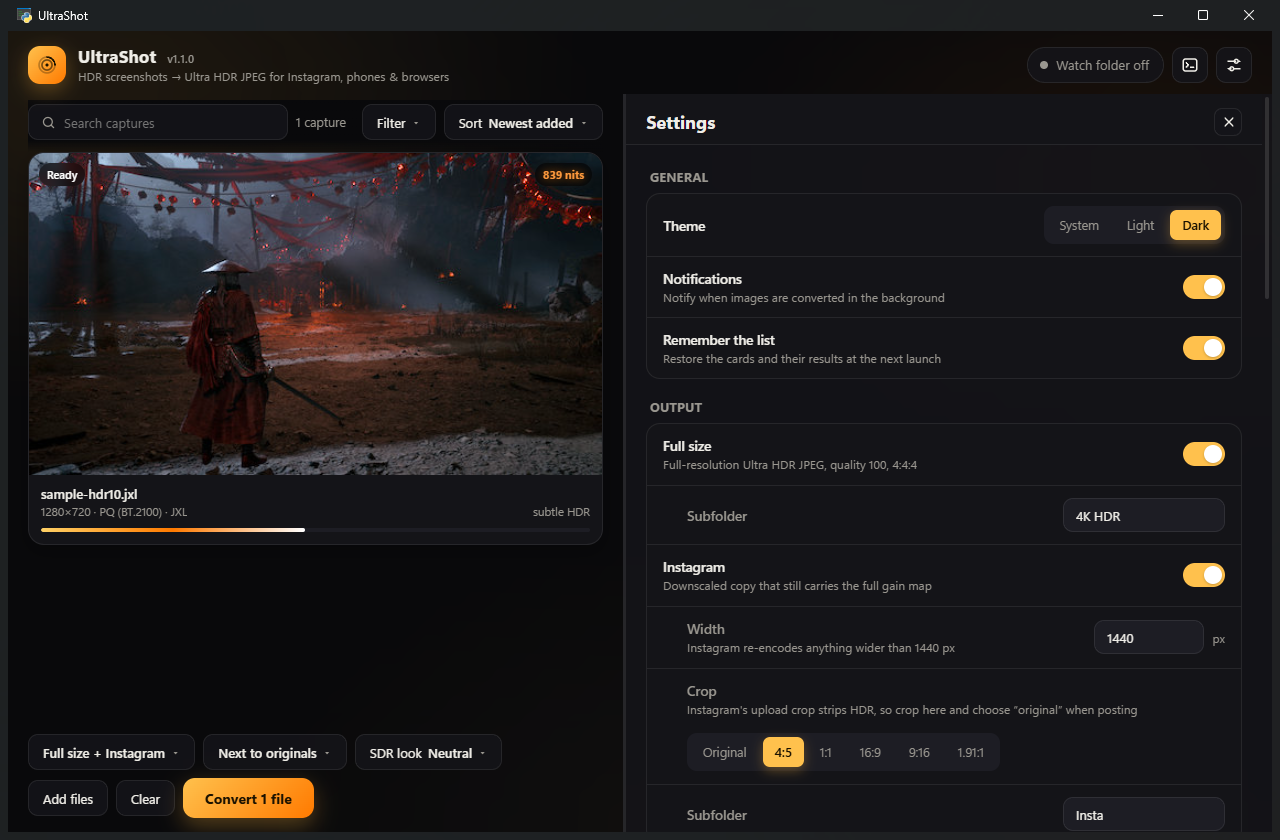
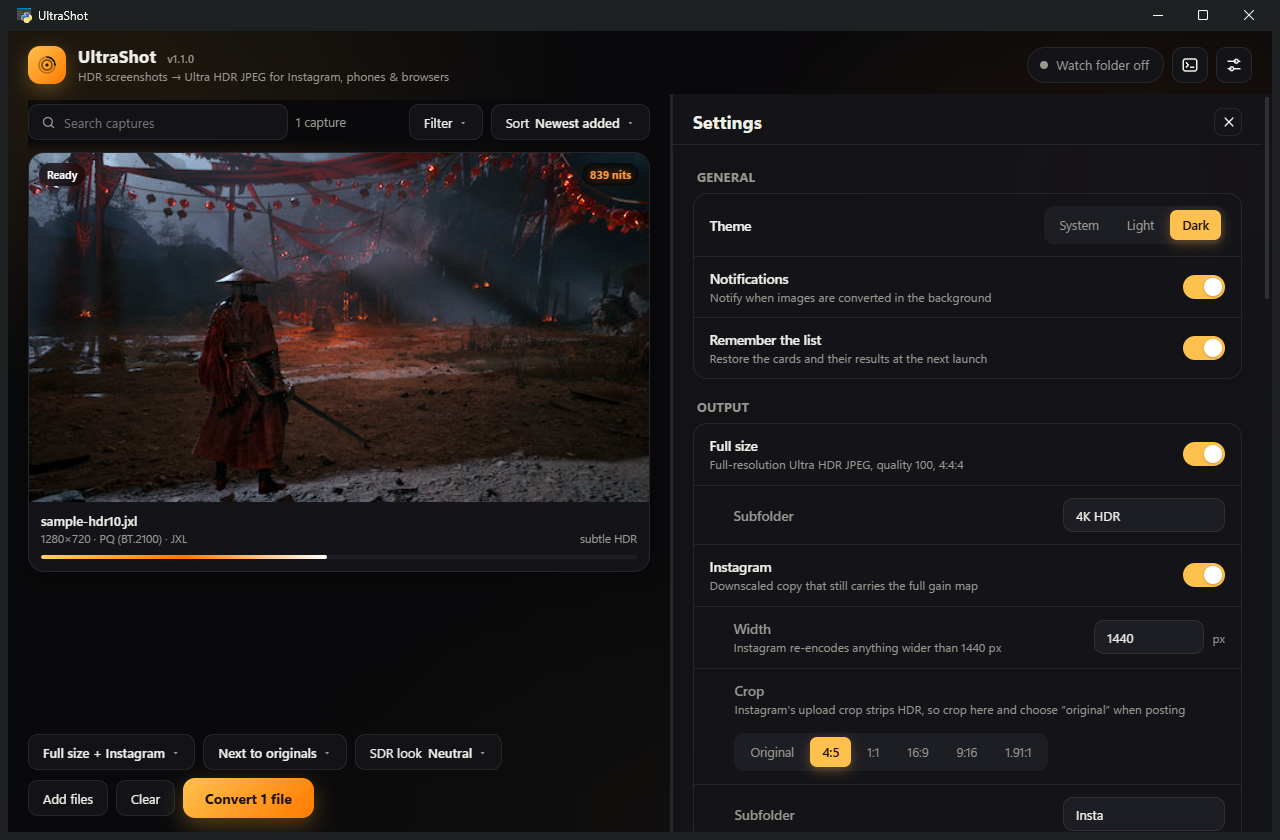
Clamp remembered pane widths to the window; chips stay on one line
A pane width saved on a large window is capped to what the current window can give beside the file list, on load and on every resize, so shrinking the window or opening the app on a smaller display cannot let a pane swallow the view. Chips never wrap their label, the grid bar wraps as a whole when it must, and the screenshot tool no longer inherits pane settings from the live app.

diff --git a/ui/app.js b/ui/app.js
@@ -521,6 +521,7 @@ function closePane(id) {
   document.getElementById(id).classList.remove("open");
 }
 function fitPanes() {
+  applyPaneLayout();
   const avail = window.innerWidth - CONTENT_MIN;
   while (paneOrder.length > 1 && paneOrder.reduce((s, id) => s + paneMin(id), 0) > avail) {
     const oldest = paneOrder[0];
@@ -538,15 +539,17 @@ function applyPaneLayout() {
   const order = ((s.pane_order || []).filter((id) => PANE_IDS.includes(id)));
   for (const id of PANE_IDS) if (!order.includes(id)) order.push(id);
   order.forEach((id, i) => { document.getElementById(id).style.order = i + 1; });
+  // a remembered width never exceeds what the window can give the pane next to the file list
+  const cap = Math.max(PANES.inspector - 100, window.innerWidth - CONTENT_MIN - 40);
   for (const [id, w] of Object.entries(s.pane_widths || {})) {
     const pane = document.getElementById(id);
-    if (pane && w >= PANES[id] - 100) setPaneWidth(pane, w);
+    if (pane && w >= PANES[id] - 100) setPaneWidth(pane, Math.min(w, cap));
   }
 }
 // A pane's width is its flex basis, its minimum and its maximum at once, so a saved width holds
 // even when the window is full and the panes would otherwise shrink to their minimums.
 function setPaneWidth(pane, w) { for (const v of ["--w", "--min", "--wmax"]) pane.style.setProperty(v, w + "px"); }
-function paneMin(id) { return (S.settings && S.settings.pane_widths || {})[id] || PANES[id]; }
+function paneMin(id) { return Math.min((S.settings && S.settings.pane_widths || {})[id] || PANES[id], Math.max(PANES[id] - 100, window.innerWidth - CONTENT_MIN - 40)); }
 function bindPaneDrag() {
   const marker = el("div", "pane-marker"); document.body.appendChild(marker);
   const dropTarget = (x, self) => {

diff --git a/ui/app.css b/ui/app.css
@@ -111,7 +111,7 @@ small { color: var(--muted); font-weight: 400; }
 
 /* ---------- main */
 #main { position: relative; z-index: 1; padding: 6px 20px 12px; overflow: auto; min-height: 0; }
-.gridbar { position: sticky; top: 0; z-index: 3; display: flex; align-items: center; gap: 8px; padding: 4px 0 12px;
+.gridbar { position: sticky; top: 0; z-index: 3; display: flex; flex-wrap: wrap; align-items: center; gap: 8px; padding: 4px 0 12px;
   background: linear-gradient(var(--bg) 78%, transparent); }
 .gridbar .search { display: flex; align-items: center; gap: 8px; height: var(--h-ctl); padding: 0 12px; border-radius: var(--r-ctl); background: var(--panel); border: 1px solid var(--border); color: var(--muted); flex: 0 1 260px; min-width: 140px; box-sizing: border-box; }
 .gridbar .search:hover { border-color: var(--border2); }
@@ -182,7 +182,7 @@ small { color: var(--muted); font-weight: 400; }
 .chips { display: flex; gap: 8px; flex-wrap: wrap; }
 .chip {
   height: var(--h-ctl); padding: 0 14px; border-radius: var(--r-ctl); font-size: 13px; background: var(--panel); border: 1px solid var(--border);
-  backdrop-filter: blur(10px); display: flex; align-items: center; gap: 6px; transition: all .15s;
+  backdrop-filter: blur(10px); display: flex; align-items: center; gap: 6px; transition: all .15s; white-space: nowrap;
 }
 .chip:hover { border-color: var(--border2); background: var(--panel2); }
 .chip::after { content: "▾"; color: var(--muted); font-size: 11px; }

diff --git a/tools/screenshots.py b/tools/screenshots.py
@@ -69,7 +69,8 @@ def main():
     U.THUMB_DIR = os.path.join(scratch, "thumbs")
     app = U.App()
     app.settings.update(watch=False, startup=False, explorer_menu=False, tray=False, theme="dark",
-                        ig_crop="4:5", exposure=0.0, knee=0.6, auto_sdr=False)
+                        ig_crop="4:5", exposure=0.0, knee=0.6, auto_sdr=False,
+                        pane_order=[], pane_widths={}, tile_sort="added_desc")
     U.save_settings = lambda s: None            # never persist the demo settings
     app.apply_integrations = lambda: None
     api = U.Api(app)
